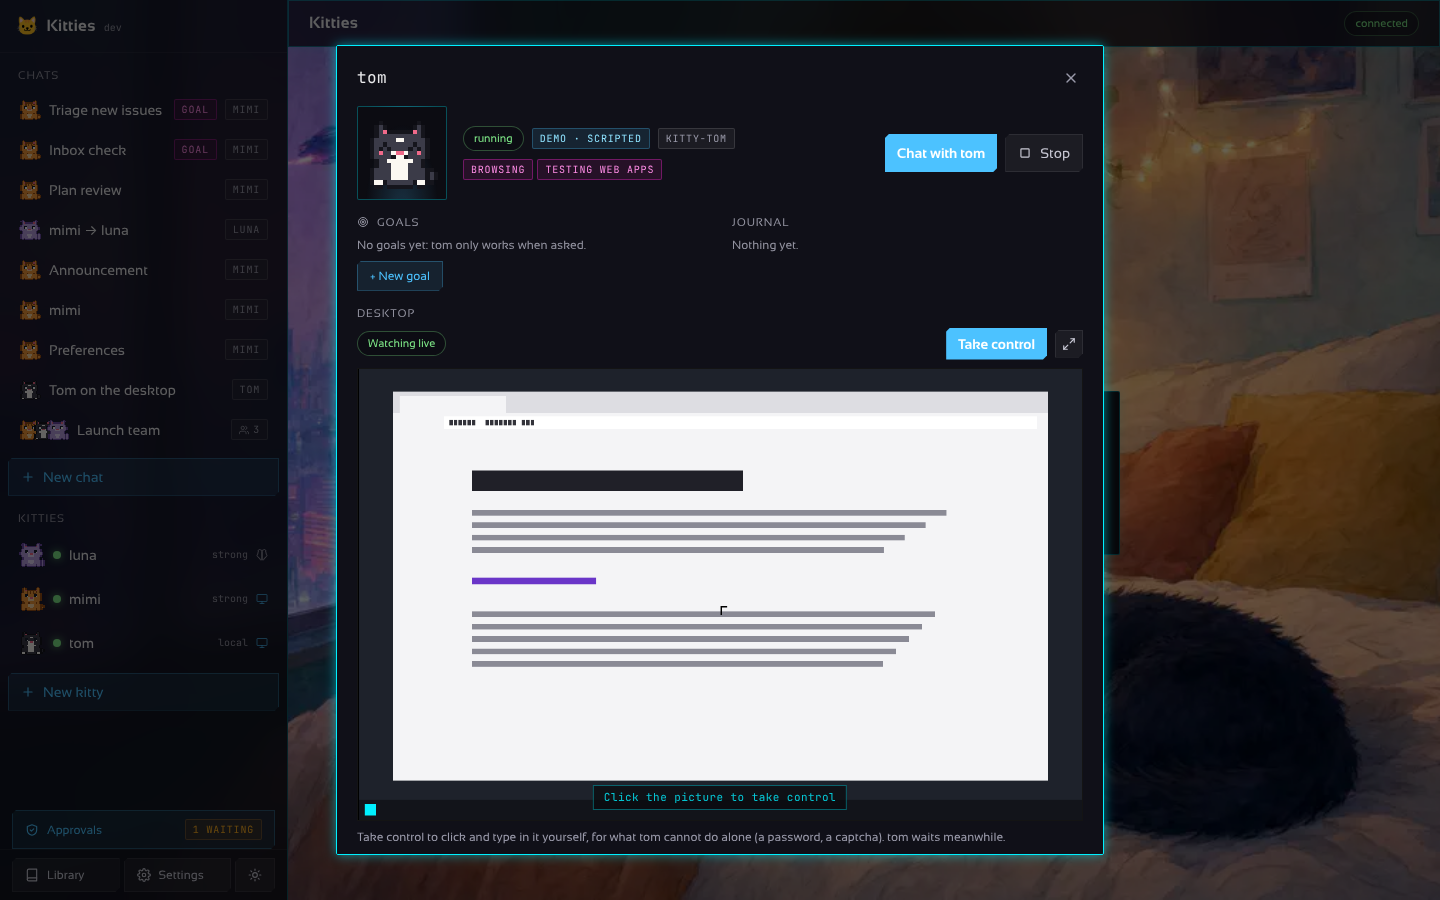
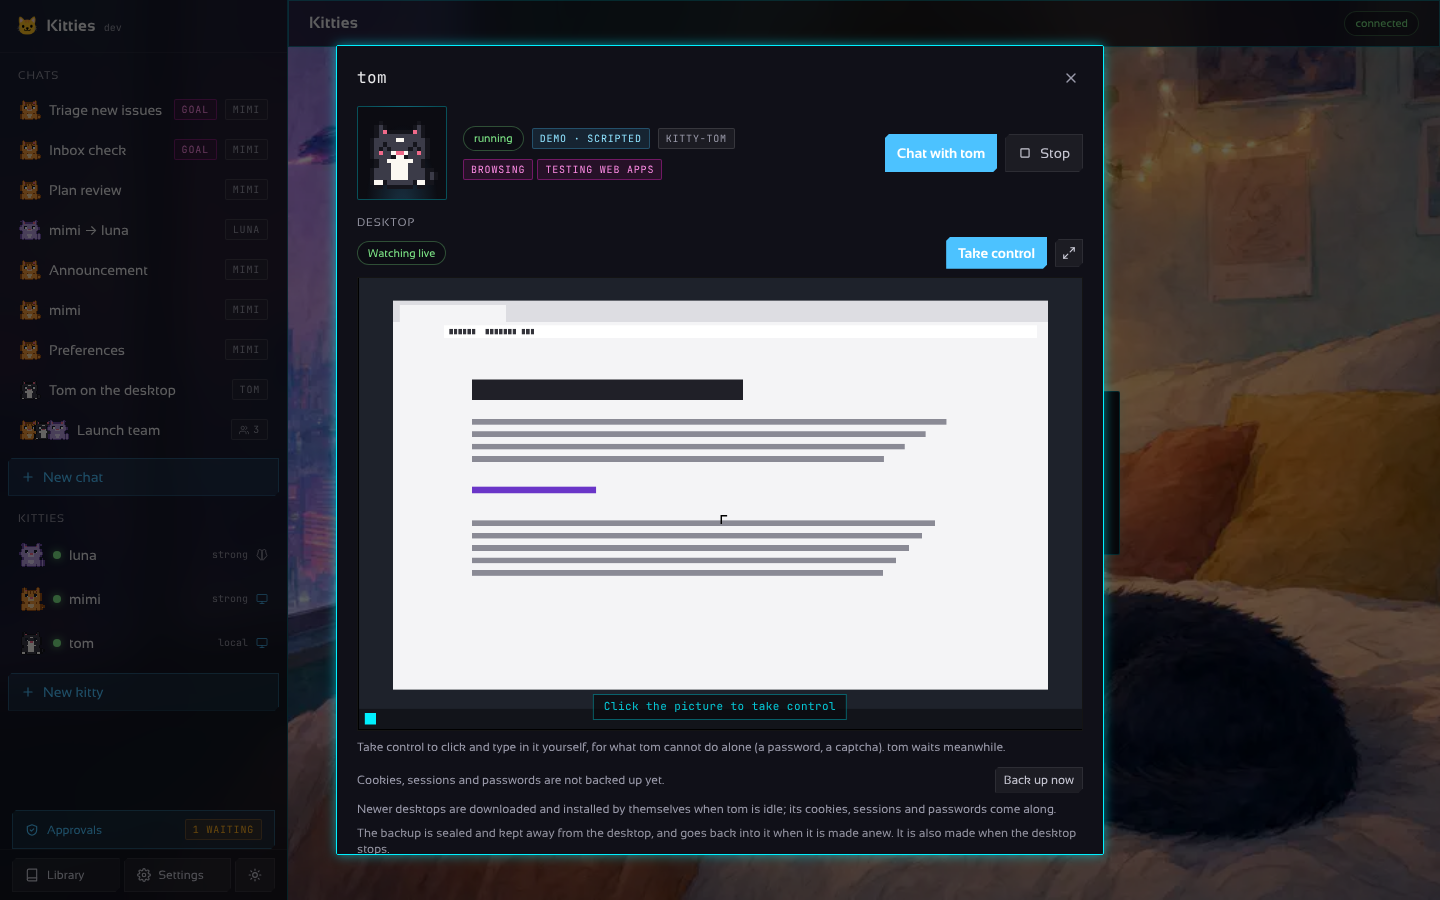
fix(ui): put the desktop right after the header in a kitty's drawer
The goals and the journal grow; with the desktop below them it was pushed out of sight.

Claude-Session: https://claude.ai/code/session_01H6tmVU5JTfRPDskkjYUid1

Changed region(s): [[0.25, 0.2178, 0.75, 0.9644], [0.5, 0.2489, 0.5625, 0.28]]

diff --git a/desktop/frontend/src/Modals.tsx b/desktop/frontend/src/Modals.tsx
@@ -664,14 +664,7 @@ export function KittyDrawer({
         </div>
       </div>
       {err && <p class="text-sm text-[var(--c-red)] mt-2">{err}</p>}
-      <div class="grid md:grid-cols-2 gap-x-6">
-        <div class="min-w-0">
-          <GoalsPanel kitty={kitty} onOpenChat={onOpenChat} />
-        </div>
-        <div class="min-w-0">
-          <JournalPanel kitty={kitty} onOpenChat={onOpenChat} />
-        </div>
-      </div>
+      {/* The desktop comes first: the goals and the journal grow, and must not push it down. */}
       {kitty.desktop && (
         <div class="min-w-0">
           <div class="section-title !mx-0 mt-5">{t("Desktop")}</div>
@@ -687,6 +680,14 @@ export function KittyDrawer({
           <DesktopCare kitty={kitty} onChanged={onChanged} />
         </div>
       )}
+      <div class="grid md:grid-cols-2 gap-x-6">
+        <div class="min-w-0">
+          <GoalsPanel kitty={kitty} onOpenChat={onOpenChat} />
+        </div>
+        <div class="min-w-0">
+          <JournalPanel kitty={kitty} onOpenChat={onOpenChat} />
+        </div>
+      </div>
       <details class="config mt-5" data-testid="kitty-config">
         <summary>
           <span>{t("Configuration")}</span>

diff --git a/desktop/frontend/e2e/screens.spec.ts b/desktop/frontend/e2e/screens.spec.ts
@@ -1215,6 +1215,13 @@ test("in a kitty's drawer the desktop is there, live, and one click on it takes 
   const drawer = page.locator("[data-modal]");
   const live = drawer.getByTestId("live-desktop");
   await expect(live).toBeVisible();
+  // The desktop comes right after the header, above the goals and the journal: those grow and
+  // must not push it down.
+  const deskBox = (await live.boundingBox())!;
+  const goalsBox = (await drawer.getByText("Goals", { exact: true }).first().boundingBox())!;
+  const journalBox = (await drawer.getByText("Journal", { exact: true }).first().boundingBox())!;
+  expect(deskBox.y).toBeLessThan(goalsBox.y);
+  expect(deskBox.y).toBeLessThan(journalBox.y);
   // One picture of the desktop, and it is the live one: nothing else shows it, nothing to open.
   await expect(drawer.getByTestId("live-frame")).toHaveCount(1);
   await expect(drawer.getByTestId("open-desktop")).toHaveCount(0);
